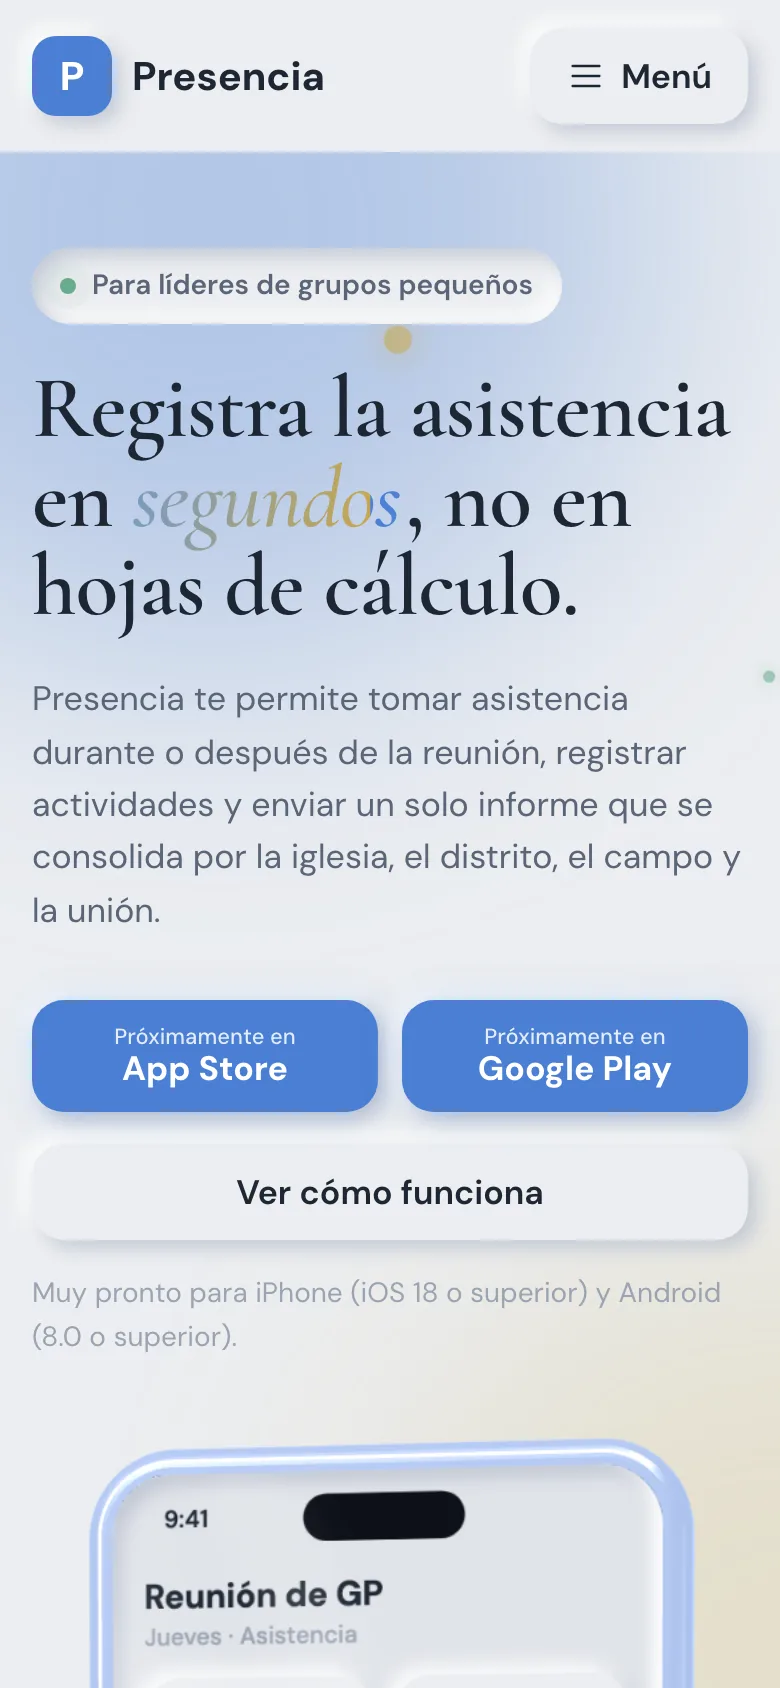
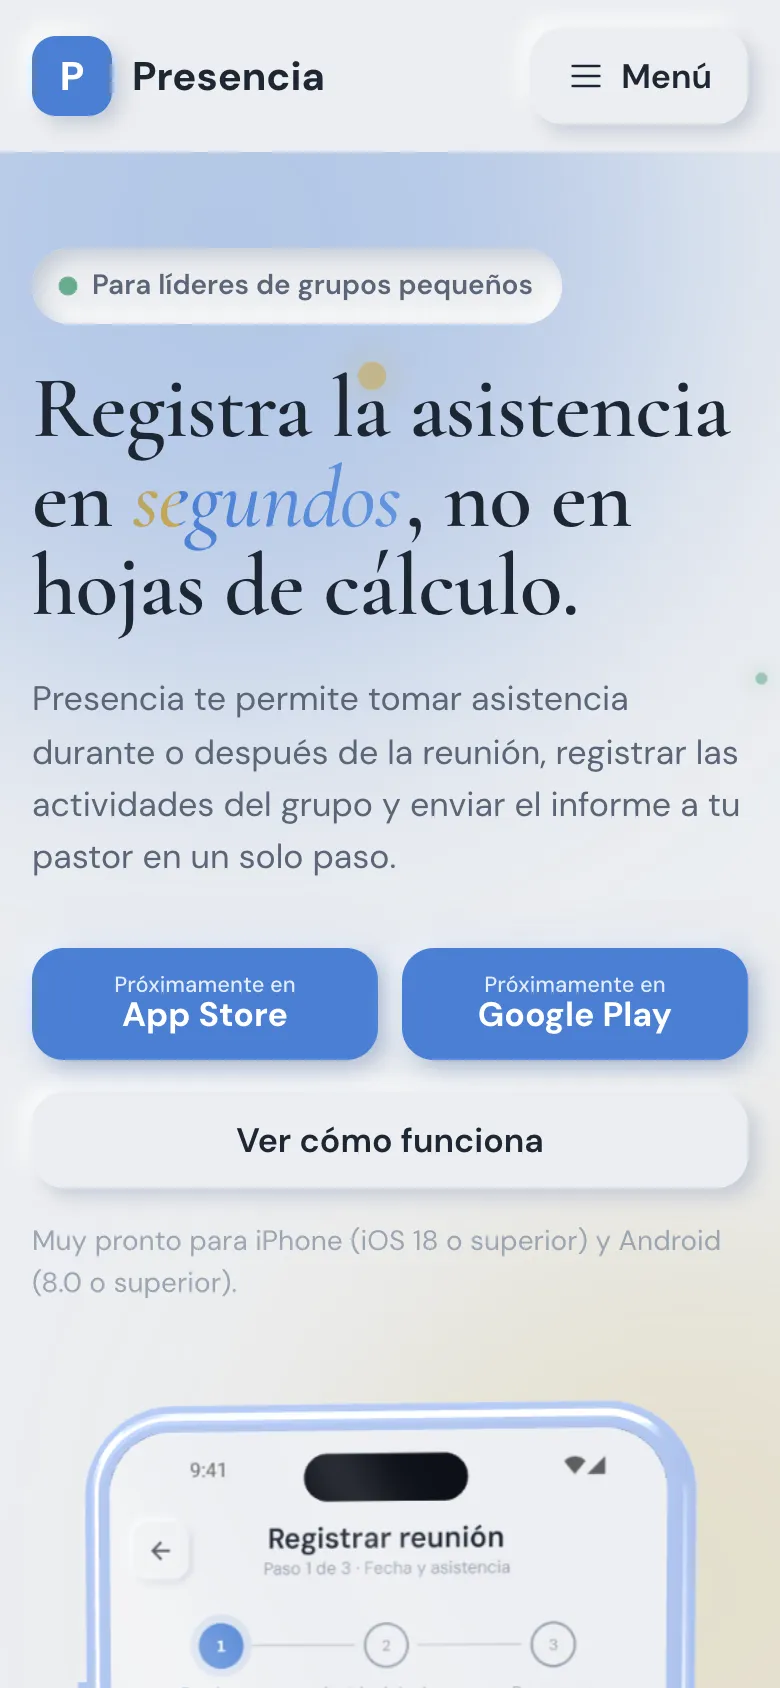
Presencia case study: current screenshots and accurate copy
Recapture the landing hero and roles shots from the current site, replace
the old attendance mock-up with a real Android screen, and drop claims the
app doesn't back up (charts, row-level security). The phone-width test now
treats scroll containers as clipping, since the gallery swipes sideways.

diff --git a/tests/e2e/zine.spec.ts b/tests/e2e/zine.spec.ts
@@ -38,7 +38,7 @@ test.describe('phone width', () => {
         const clipped = (el: Element) => {
           for (let p = el.parentElement; p && p !== document.body; p = p.parentElement) {
             const s = getComputedStyle(p);
-            if (['hidden', 'clip'].includes(s.overflowX)) {
+            if (['hidden', 'clip', 'auto', 'scroll'].includes(s.overflowX)) {
               const r = p.getBoundingClientRect();
               if (r.left >= -1 && r.right <= vw + 1) return true;
             }
